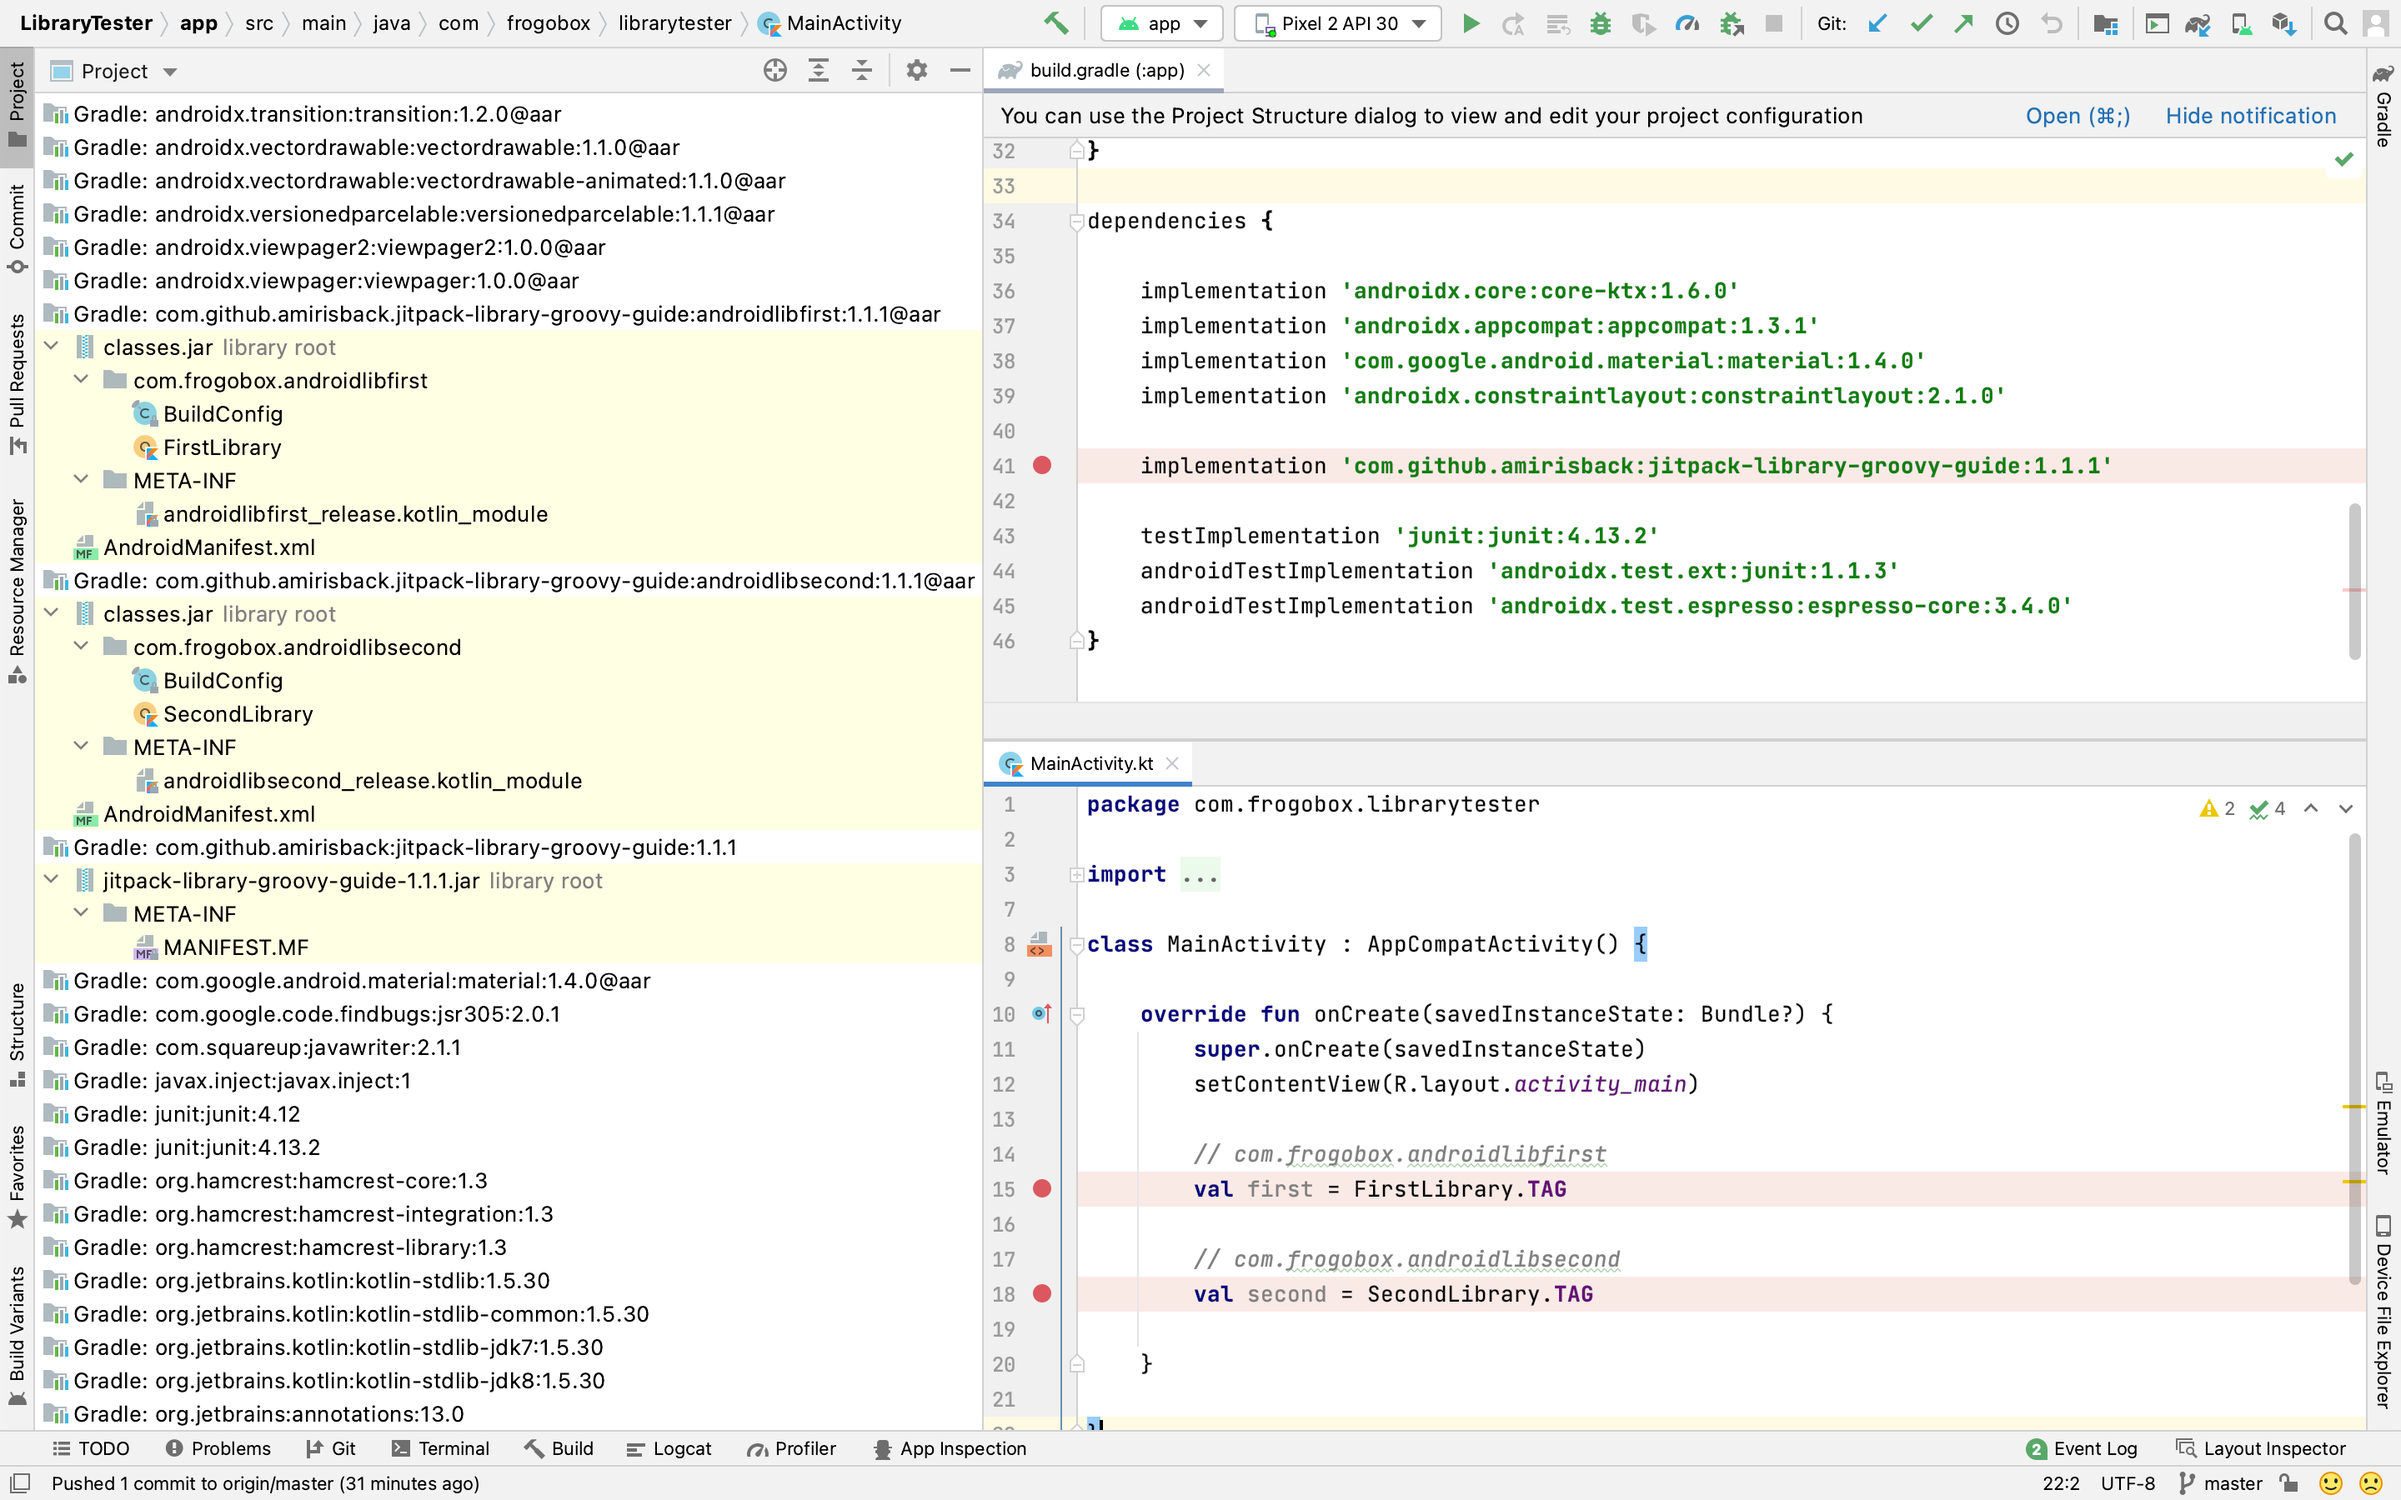
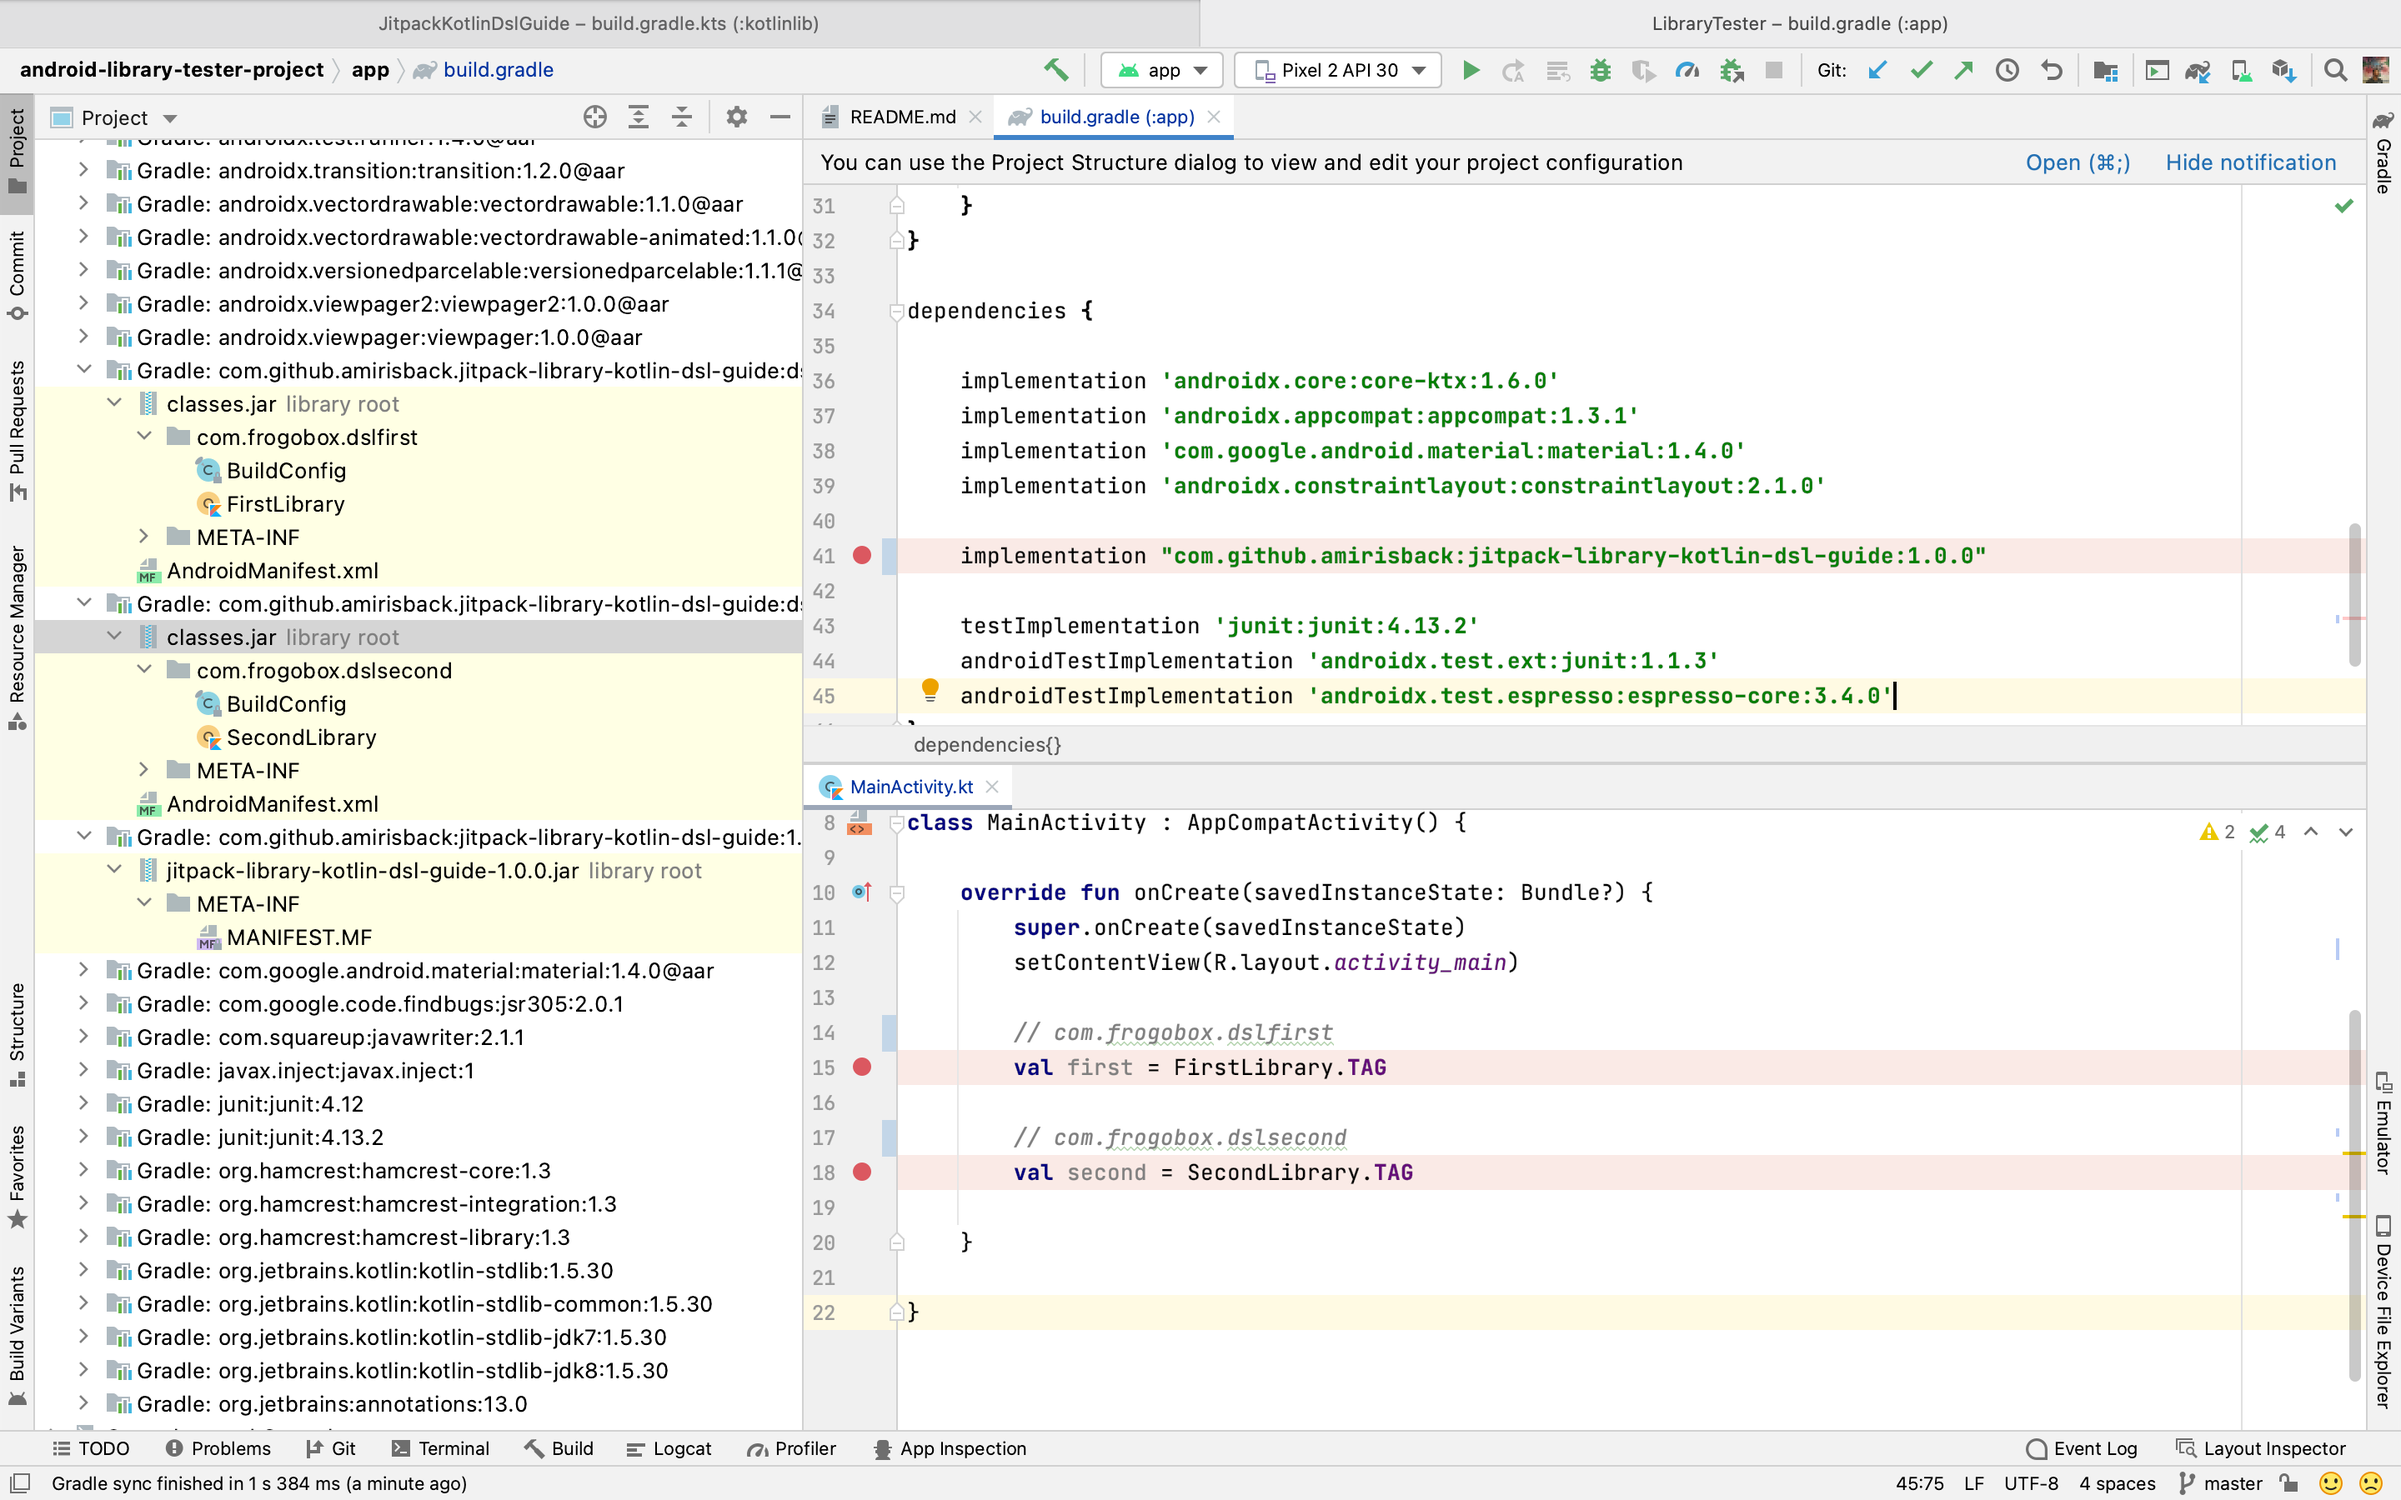
update: README.md

Changed region(s): [[0.0, 0.0, 1.0, 0.9956], [0.3125, 0.84, 1.0, 0.9956]]

diff --git a/README.md b/README.md
@@ -25,7 +25,7 @@ What's New??
     * Kotlin Library *
     * Experimental 3 Library *
     * Experimental Java/Kotlin Library *
-    * Renaming JitPack Library Guide Into JitPack Library Groovy Guide *
+    * Kotlin DSL / KTS *
 
 ## Download this project
 
